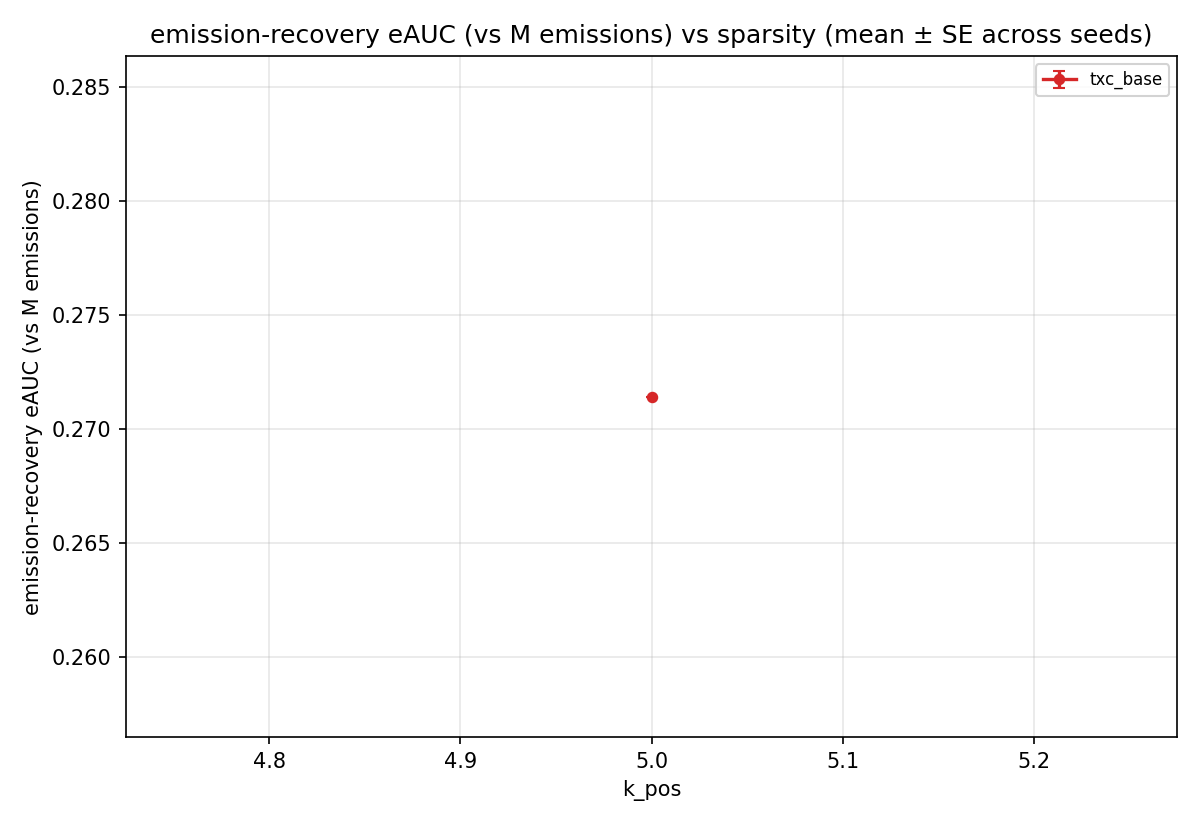
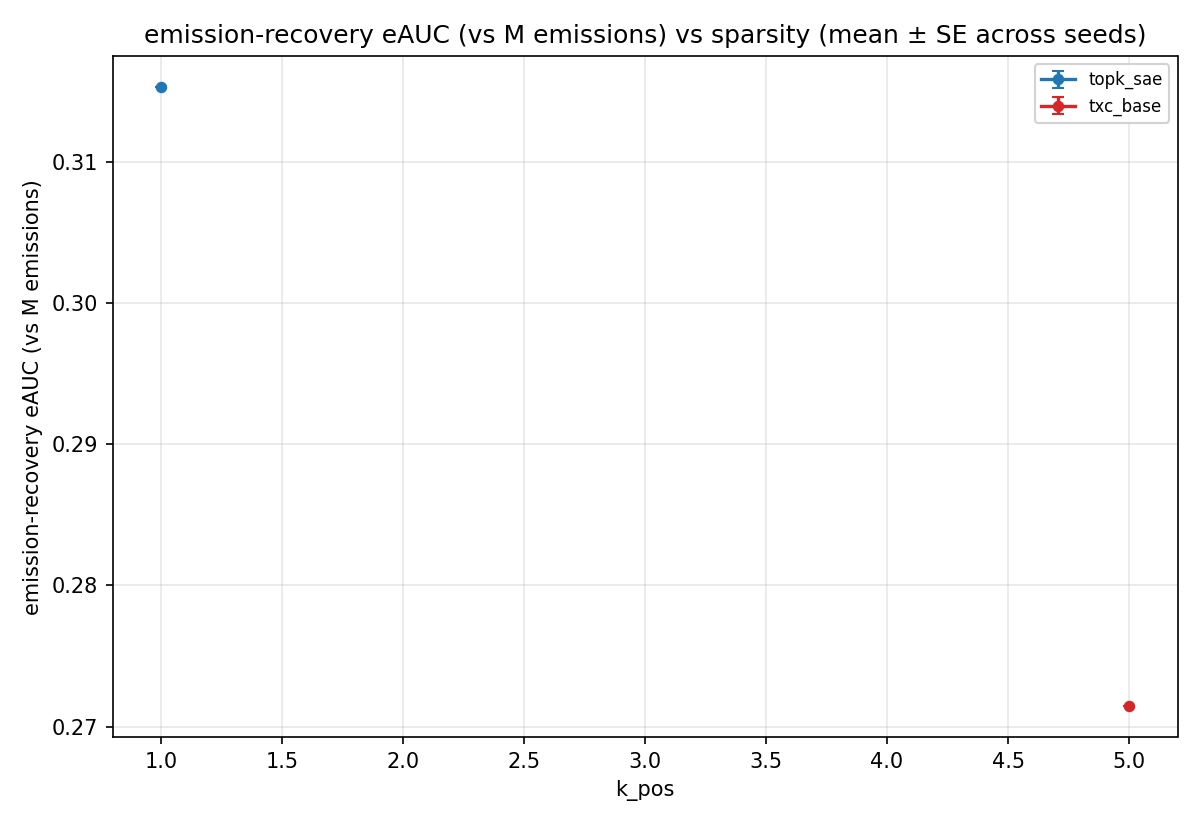
c1+c2 paper auto: refresh synthetic bundles (c1=, c2= leaderboard rows)
Auto-generated by purified/scripts/synthetic_paper_renderer.py.
Inputs: results/leaderboard.jsonl filtered to component in (c1,c2)
with eval_cfg._full_suite=true (the c{1,2}_synthetic_*_full driver flag).

diff --git a/purified/docs/components/c2_paper_results.md b/purified/docs/components/c2_paper_results.md
@@ -1,6 +1,6 @@
 # C2 Synthetic Coupled — paper-ready results (auto-generated)
 
-_Last refreshed: 2026-05-06T02:14:42+00:00_
+_Last refreshed: 2026-05-06T02:29:45+00:00_
 
 ## Setup
 
@@ -10,12 +10,13 @@ _Last refreshed: 2026-05-06T02:14:42+00:00_
 - Companion: eAUC — recovery of the M=20 emission directions.
 - Driver: `experiments/c2_synthetic_coupled_full/run.py` (isolated `act_cache_key` via `temp_bench.data.toy_full.api:coupled_hmm`).
 
-Currently 1 cells across 1 (arch, T) configurations; seeds-per-cell range = [1].
+Currently 2 cells across 2 (arch, T) configurations; seeds-per-cell range = [1].
 
 ## gAUC headline (peak gAUC over k_pos)
 
 | arch | T | k\* | gAUC (mean ± SE) | n seeds |
 |------|---|----|---------------------------|---------|
+| `topk_sae` | — | 1 | 0.441 ± 0.000 | 1 |
 | `txc_base` | — | 5 | 0.320 ± 0.000 | 1 |
 
 ![c2_gauc_vs_k](c2_paper_assets/c2_gauc_vs_k.png)
@@ -24,18 +25,21 @@ Currently 1 cells across 1 (arch, T) configurations; seeds-per-cell range = [1].
 
 | arch | T | k\* | eAUC (mean ± SE) | n seeds |
 |------|---|----|---------------------------|---------|
+| `topk_sae` | — | 1 | 0.315 ± 0.000 | 1 |
 | `txc_base` | — | 5 | 0.271 ± 0.000 | 1 |
 
 ![c2_eauc_vs_k](c2_paper_assets/c2_eauc_vs_k.png)
 
 ## Per-cell mean — gAUC
 
-| arch (T) | k=5 |
-|---|---|
-| `txc_base` | 0.320 |
+| arch (T) | k=1 | k=5 |
+|---|---|---|
+| `topk_sae` | 0.441 | — |
+| `txc_base` | — | 0.320 |
 
 ## Per-cell mean — eAUC
 
-| arch (T) | k=5 |
-|---|---|
-| `txc_base` | 0.271 |
+| arch (T) | k=1 | k=5 |
+|---|---|---|
+| `topk_sae` | 0.315 | — |
+| `txc_base` | — | 0.271 |

diff --git a/purified/docs/components/c1_paper_results.md b/purified/docs/components/c1_paper_results.md
@@ -1,6 +1,6 @@
 # C1 Synthetic TopK — paper-ready results (auto-generated)
 
-_Last refreshed: 2026-05-06T02:14:42+00:00_
+_Last refreshed: 2026-05-06T02:29:45+00:00_
 
 ## Setup
 
